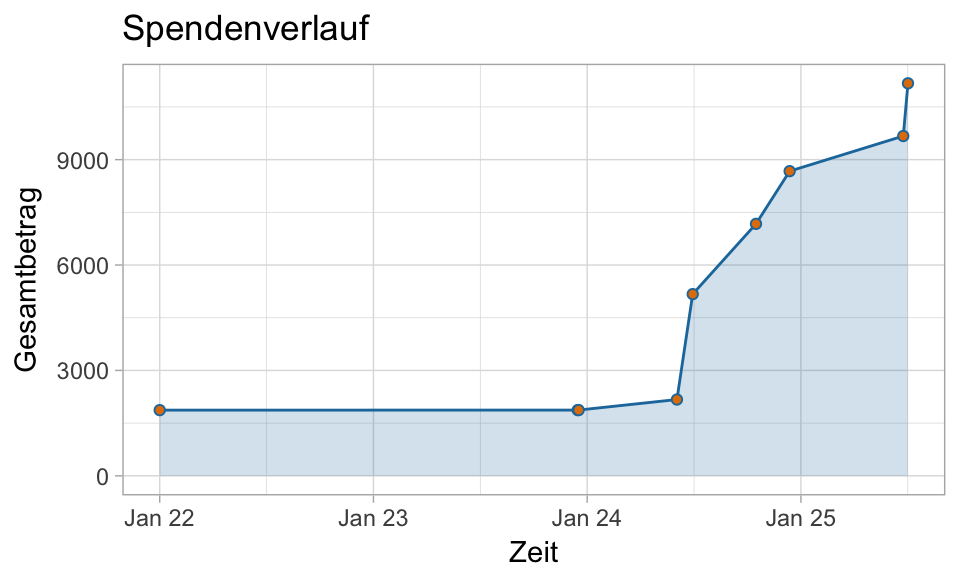
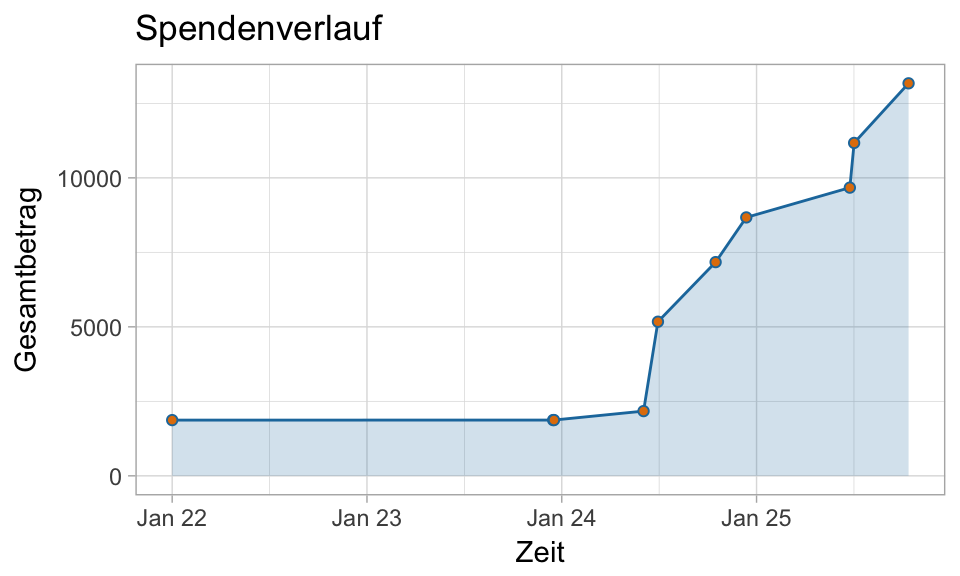
jaja

diff --git a/Results.html b/Results.html
@@ -217,7 +217,7 @@ $(document).ready(function () {
 
 
 <p align="right" class="text-primary">
-Stand: 25.01.2018 14:20
+Stand: 25.01.2018 19:49
 </p>
 <p> </p>
 <p> </p>
@@ -251,7 +251,7 @@ Spende
 Spende bei Zuschlag
 </td>
 <td style="text-align:right;">
-9000
+11000
 </td>
 </tr>
 <tr>
@@ -267,7 +267,7 @@ Für unser eigenes Zentrum
 Gesamt
 </td>
 <td style="text-align:right;font-weight: bold;color: white;background-color: #E17E08;">
-11172
+13172
 </td>
 </tr>
 </tbody>
@@ -277,7 +277,7 @@ Gesamt
 <div class="card text-white bg-primary mb-3" style="max-width: 80rem;">
   <div class="card-body">
     &nbsp;
-    <p class="card-text" align="center"> <b>7</b> Leute haben bisher <b>11172 €</b> gespendet oder zugesagt!</p>
+    <p class="card-text" align="center"> <b>8</b> Leute haben bisher <b>13172 €</b> gespendet oder zugesagt!</p>
     &nbsp; 
   </div>
 </div>
